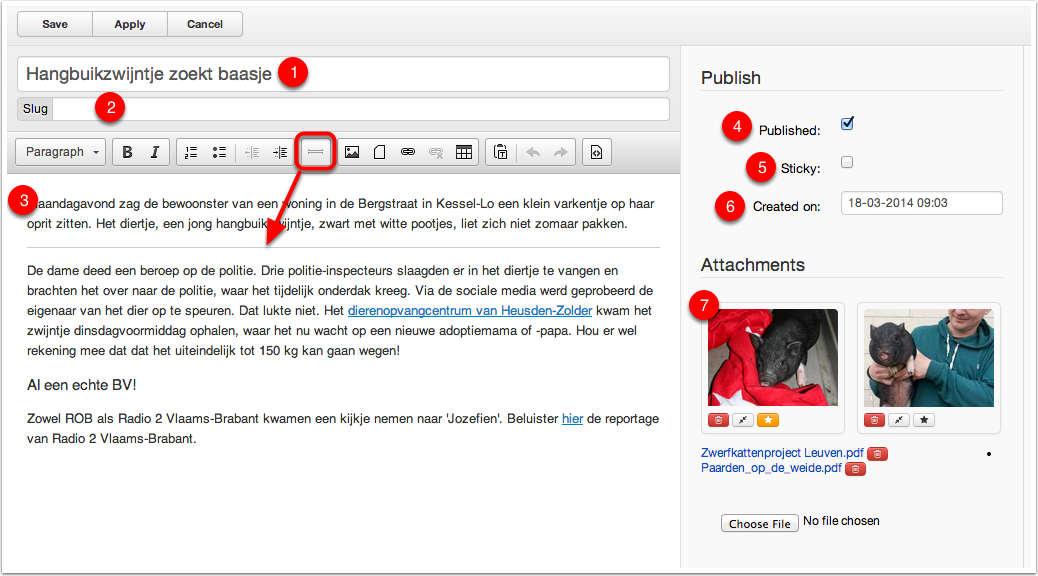
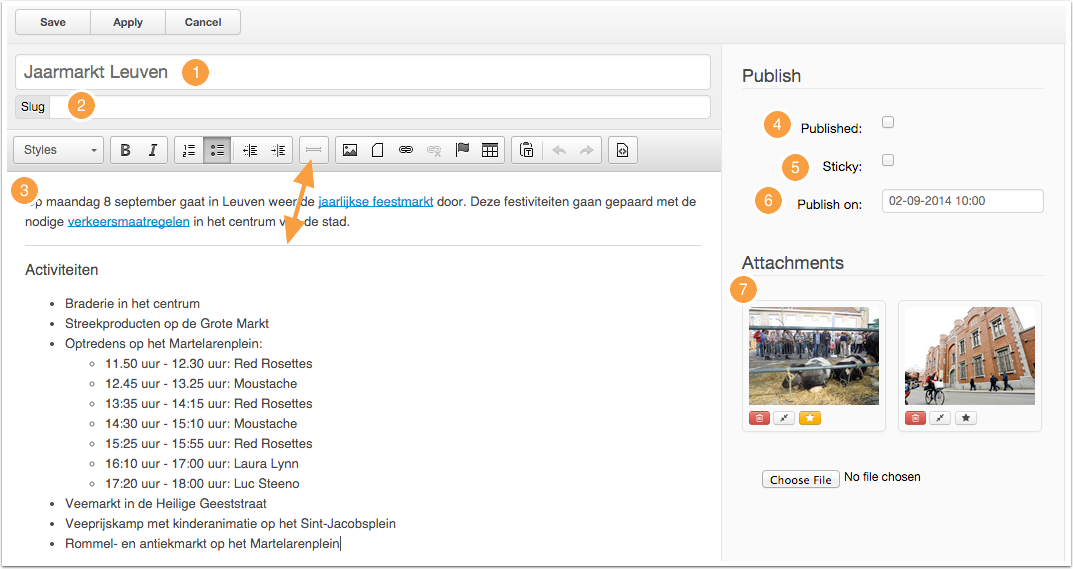
re #787 - Added publish_on to docs

diff --git a/_documentation/02-news.md b/_documentation/02-news.md
@@ -14,11 +14,11 @@ index: 2
 ## Create a news article
 
 1. Title
-2. Slug, URL friendly version of the post title - automatically generated
+2. Slug, URL friendly version of the title - automatically generated
 3. Text editor, notice the read more button to separate intro and full text
 4. Published state
 5. Sticky state, feature this article on the homepage (latest article by default)
-6. Created on date
+6. Publish on, publish on a specific date
 7. Attachments, images (the starred image will be the leading image) & documents
 
 <a href="/images/documentation/news-admin-article.png" data-gallery="enabled">
